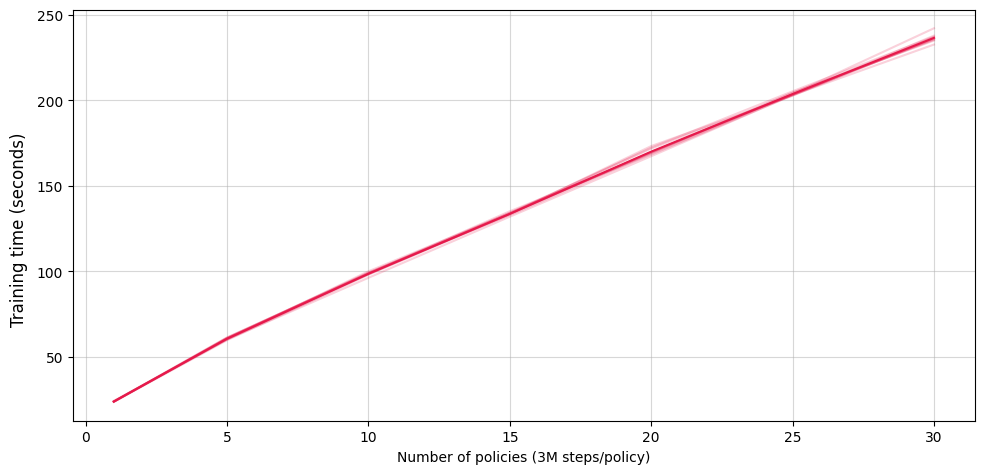
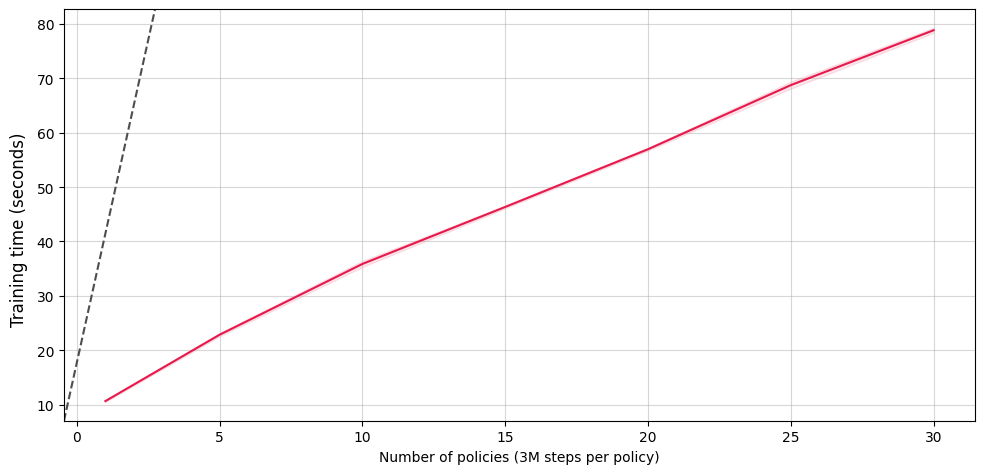
WIP

diff --git a/learning/execution/exec_mappo_policy.py b/learning/execution/exec_mappo_policy.py
@@ -188,64 +188,44 @@ def replay_simu(args):
     # )
 
     # env = Catch(
-    #     drone_ids=np.arange(4),
+    #     drone_ids=np.arange(8),
     #     render_mode="human",
     #     init_flying_pos=np.array(
     #         [
-    #             # [-0.7, -0.5, 1.5],
+    #             [-0.7, -0.5, 1.5],
     #             [-0.8, 0.5, 0.5],
     #             [1.0, 0.5, 1.5],
     #             [0.5, 0.0, 0.5],
     #             [0.5, -0.5, 1.0],
-    #             # [2.0, 2.5, 2.0],
-    #             # [2.0, 1.0, 2.5],
-    #             # [0.5, 0.5, 0.5],
+    #             [2.0, 2.5, 2.0],
+    #             [2.0, 1.0, 2.5],
+    #             [0.5, 0.5, 0.5],
     #         ]
     #     ),
     #     init_target_location=np.array([0.0, 0.5, 1.5]),
-    #     # init_target_location=np.array([-0.5, 0.7, 1.1]),
-    #     # final_target_location=np.array([1.2, -1.3, 2.3]),
-    #     target_speed=0.1,
-    #     size=1.3,
+    #     target_speed=0.15,
+    #     size=5,
     # )
-    #
-    env = Catch(
+
+    env = Surround(
         drone_ids=np.arange(8),
         render_mode="human",
         init_flying_pos=np.array(
             [
-                [-0.7, -0.5, 1.5],
-                [-0.8, 0.5, 0.5],
-                [1.0, 0.5, 1.5],
-                [0.5, 0.0, 0.5],
-                [0.5, -0.5, 1.0],
+                [0.0, 0.0, 1.0],
+                [0.0, 1.0, 1.0],
+                [1.0, 0.0, 1.0],
+                [1.0, 2.0, 2.0],
+                [2.0, 0.5, 1.0],
                 [2.0, 2.5, 2.0],
                 [2.0, 1.0, 2.5],
                 [0.5, 0.5, 0.5],
             ]
         ),
-        init_target_location=np.array([0.0, 0.5, 1.5]),
-        target_speed=0.15,
+        target_location=np.array([1.0, 1.0, 2.0]),
+        multi_obj=False,
         size=5,
     )
-
-    # env = Surround(
-    #     drone_ids=np.arange(5),
-    #     render_mode="human",
-    #     init_flying_pos=np.array(
-    #         [
-    #             [-1.0, 0.0, 1.0],
-    #             [-1.0, 0.5, 1.5],
-    #             [0.0, 1.0, 1.0],
-    #             [0.5, 0.0, 0.5],
-    #             [0.5, -0.5, 1.5],
-    #             # [2.0, 2.5, 2.0],
-    #             # [2.0, 1.0, 2.5],
-    #             # [0.5, 0.5, 0.5],
-    #         ]
-    #     ),
-    #     target_location=np.array([0.0, 0.5, 1.5]),
-    # )
 
     _ = env.reset(seed=args.seed)
     single_action_space = env.action_space(env.unwrapped.agents[0])

diff --git a/crazy_rl/utils/experiments_and_plots.py b/crazy_rl/utils/experiments_and_plots.py
@@ -118,14 +118,14 @@ def plot_training_time_mo(file_pattern: str = "results/mo/training_time_surround
     ex.add_hypothesis(h)
 
     # Plots a line with the function x = y
-    ax.plot([0, 1], [0, 1], transform=ax.transAxes, ls="--", c=".3")
+    ax.plot([0, 1], [0, 10], transform=ax.transAxes, ls="--", c=".3")
 
     print(ex.summary())
     ex.plot(
         ax=ax,
         x="Number of policies",
         y="Training time",
-        err_style="runs",
+        err_style="fill",
         err_fn=_ci,
         legend=False,
         std_alpha=0.1,
@@ -135,11 +135,10 @@ def plot_training_time_mo(file_pattern: str = "results/mo/training_time_surround
     )
 
     ax.set_title("")
-    ax.set_xlabel("Number of policies (3M steps/policy)")
+    ax.set_xlabel("Number of policies (3M steps per policy)")
     ax.set_ylabel("")
     fig.supylabel("Training time (seconds)")
     h, l = ax.get_legend_handles_labels()
-    # fig.legend(h, l, loc="lower center", bbox_to_anchor=(0.5, 1.0), bbox_transform=fig.transFigure, ncols=len(exp_names))
     fig.tight_layout()
     fig.savefig("results/mo/training_time.png", bbox_inches="tight")
     fig.savefig("results/mo/training_time.pdf", bbox_inches="tight")

diff --git a/crazy_rl/multi_agent/numpy/base_parallel_env.py b/crazy_rl/multi_agent/numpy/base_parallel_env.py
@@ -295,7 +295,7 @@ class BaseParallelEnv(ParallelEnv):
             glLightfv(GL_LIGHT0, GL_DIFFUSE, [1.0, 1.0, 1.0, 1])
 
             glMatrixMode(GL_PROJECTION)
-            gluPerspective(60, (self.window_size / self.window_size), 0.1, 50.0)
+            gluPerspective(75, (self.window_size / self.window_size), 0.1, 50.0)
 
             glMatrixMode(GL_MODELVIEW)
             gluLookAt(3, -11, 3, 0, 0, 0, 0, 0, 1)
